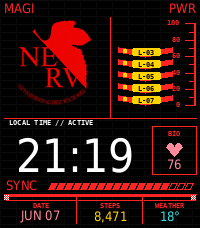
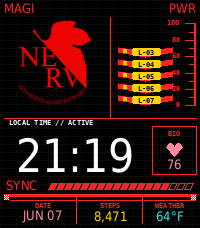
feat: configure sync rail and weather units

Changed region(s): [[0.09, 0.8904, 0.33, 0.9825], [0.78, 0.9211, 0.93, 0.9825]]

diff --git a/src/pkjs/index.js b/src/pkjs/index.js
@@ -3,7 +3,9 @@ var SETTINGS_KEY = 'nerv-watchface-settings-v1';
 var DEFAULTS = {
   CLOCK_FORMAT: 0,
   BOTTOM_LAYOUT: 0,
-  ACCENT_COLOR: 0
+  ACCENT_COLOR: 0,
+  TEMP_UNIT: 0,
+  SYNC_SOURCE: 0
 };
 
 var OPEN_METEO_URL = 'https://api.open-meteo.com/v1/forecast';
@@ -87,7 +89,7 @@ function buildConfigHtml(settings) {
     'button{width:100%;margin-top:22px;background:#ff2424;color:#000;border:0;border-radius:8px;padding:13px;font-weight:800;font-size:16px;text-transform:uppercase;}' +
     '.note{margin-top:12px;color:#777;font-size:12px;}' +
     '</style></head><body><div class="wrap">' +
-    '<h1>NERV WATCHFACE</h1><p>Configure display format and MAGI-style data modules.</p>' +
+    '<h1>NERV WATCHFACE</h1><p>Configure display format, MAGI-style modules, weather units, and the SYNC rail source.</p>' +
     '<label>Clock format</label><select id="CLOCK_FORMAT">' +
       option(0, 'System default', settings.CLOCK_FORMAT) + option(1, '24 hour', settings.CLOCK_FORMAT) + option(2, '12 hour', settings.CLOCK_FORMAT) +
     '</select>' +
@@ -97,10 +99,16 @@ function buildConfigHtml(settings) {
     '<label>HUD accent</label><select id="ACCENT_COLOR">' +
       option(0, 'NERV red', settings.ACCENT_COLOR) + option(1, 'Amber', settings.ACCENT_COLOR) + option(2, 'Green', settings.ACCENT_COLOR) + option(3, 'Cyan', settings.ACCENT_COLOR) +
     '</select>' +
+    '<label>Temperature unit</label><select id="TEMP_UNIT">' +
+      option(0, 'Celsius', settings.TEMP_UNIT) + option(1, 'Fahrenheit', settings.TEMP_UNIT) +
+    '</select>' +
+    '<label>SYNC rail source</label><select id="SYNC_SOURCE">' +
+      option(0, 'Data freshness', settings.SYNC_SOURCE) + option(1, 'Steps progress', settings.SYNC_SOURCE) + option(2, 'Battery level', settings.SYNC_SOURCE) + option(3, 'Aesthetic diagnostic', settings.SYNC_SOURCE) +
+    '</select>' +
     '<button id="save">Save</button>' +
-    '<div class="note">Weather fetches live from Open-Meteo using GPS. Logo stays NERV red.</div>' +
+    '<div class="note">Weather fetches live from Open-Meteo using GPS. SYNC can show data freshness, steps toward 10k, battery, or a fixed diagnostic state. Logo stays NERV red.</div>' +
     '</div><script>' +
-    'document.getElementById("save").onclick=function(){var s={};["CLOCK_FORMAT","BOTTOM_LAYOUT","ACCENT_COLOR"].forEach(function(k){s[k]=parseInt(document.getElementById(k).value,10);});location.href="pebblejs://close#"+encodeURIComponent(JSON.stringify(s));};' +
+    'document.getElementById("save").onclick=function(){var s={};["CLOCK_FORMAT","BOTTOM_LAYOUT","ACCENT_COLOR","TEMP_UNIT","SYNC_SOURCE"].forEach(function(k){s[k]=parseInt(document.getElementById(k).value,10);});location.href="pebblejs://close#"+encodeURIComponent(JSON.stringify(s));};' +
     '</script></body></html>';
 }
 

diff --git a/src/c/pebble-watchface.c b/src/c/pebble-watchface.c
@@ -6,6 +6,8 @@
 #define SETTINGS_KEY_CLOCK_FORMAT 1001
 #define SETTINGS_KEY_BOTTOM_LAYOUT 1003
 #define SETTINGS_KEY_ACCENT_COLOR 1004
+#define SETTINGS_KEY_TEMP_UNIT 1005
+#define SETTINGS_KEY_SYNC_SOURCE 1006
 
 #define CLOCK_SYSTEM 0
 #define CLOCK_24H 1
@@ -20,6 +22,16 @@
 #define ACCENT_GREEN 2
 #define ACCENT_CYAN 3
 
+#define TEMP_CELSIUS 0
+#define TEMP_FAHRENHEIT 1
+
+#define SYNC_SOURCE_FRESHNESS 0
+#define SYNC_SOURCE_STEPS 1
+#define SYNC_SOURCE_BATTERY 2
+#define SYNC_SOURCE_AESTHETIC 3
+
+#define STEPS_GOAL 10000
+
 static Window *s_main_window;
 static Layer *s_canvas_layer;
 static GBitmap *s_logo_bitmap;
@@ -31,6 +43,8 @@ static GFont s_font_chip_small;
 extern uint32_t MESSAGE_KEY_CLOCK_FORMAT;
 extern uint32_t MESSAGE_KEY_BOTTOM_LAYOUT;
 extern uint32_t MESSAGE_KEY_ACCENT_COLOR;
+extern uint32_t MESSAGE_KEY_TEMP_UNIT;
+extern uint32_t MESSAGE_KEY_SYNC_SOURCE;
 extern uint32_t MESSAGE_KEY_TEMPERATURE;
 extern uint32_t MESSAGE_KEY_REQUEST_WEATHER;
 
@@ -49,6 +63,8 @@ static time_t s_last_weather_time = 0;
 static int s_clock_format = CLOCK_SYSTEM;
 static int s_bottom_layout = LAYOUT_DATE_STEPS_WEATHER;
 static int s_accent_color = ACCENT_RED;
+static int s_temp_unit = TEMP_CELSIUS;
+static int s_sync_source = SYNC_SOURCE_FRESHNESS;
 static Layer *s_window_layer;
 static bool s_is_obstructed;
 
@@ -298,6 +314,21 @@ static void draw_panel_column(GContext *ctx, GRect r, const char *label, const c
   }
 }
 
+static void format_weather_text(char *buf, size_t buf_len) {
+  if (!s_weather_valid) {
+    snprintf(buf, buf_len, "--\u00B0");
+    return;
+  }
+
+  int temp = s_temperature;
+  if (s_temp_unit == TEMP_FAHRENHEIT) {
+    temp = ((s_temperature * 9) + (s_temperature >= 0 ? 2 : -2)) / 5 + 32;
+    snprintf(buf, buf_len, "%d\u00B0F", temp);
+  } else {
+    snprintf(buf, buf_len, "%d\u00B0C", temp);
+  }
+}
+
 static void draw_bottom_panel(GContext *ctx) {
   const int px = 4, py = BOTTOM_Y, pw = 192, ph = 30;
   GColor accent = accent_color();
@@ -316,7 +347,8 @@ static void draw_bottom_panel(GContext *ctx) {
   graphics_draw_line(ctx, GPoint(d1x, py + 2), GPoint(d1x, py + ph - 2));
   graphics_draw_line(ctx, GPoint(d2x, py + 2), GPoint(d2x, py + ph - 2));
 
-  GRect c1 = GRect(px + 2, py + 2, d1x - px - 2, ph - 4);
+  /* First column gets extra left inset: real Time2 rendering clipped DATE to ATE for one user. */
+  GRect c1 = GRect(px + 6, py + 2, d1x - px - 6, ph - 4);
   GRect c2 = GRect(d1x + 2, py + 2, d2x - d1x - 2, ph - 4);
   GRect c3 = GRect(d2x + 2, py + 2, px + pw - d2x - 2, ph - 4);
 
@@ -326,13 +358,7 @@ static void draw_bottom_panel(GContext *ctx) {
       draw_panel_column(ctx, c2, "BATT", s_battery_text, accent, false);
       {
         char weather_buf[16];
-        if (s_weather_valid) {
-          char temp_buf[4];
-          snprintf(temp_buf, sizeof(temp_buf), "%d", s_temperature);
-          snprintf(weather_buf, sizeof(weather_buf), "%s\u00B0", temp_buf);
-        } else {
-          snprintf(weather_buf, sizeof(weather_buf), "--\u00B0");
-        }
+        format_weather_text(weather_buf, sizeof(weather_buf));
         draw_panel_column(ctx, c3, "WEATHER", weather_buf, color_cyan(), false);
       }
       break;
@@ -347,13 +373,7 @@ static void draw_bottom_panel(GContext *ctx) {
       draw_panel_column(ctx, c2, "STEPS", s_steps_text, color_yellow(), false);
       {
         char weather_buf[16];
-        if (s_weather_valid) {
-          char temp_buf[4];
-          snprintf(temp_buf, sizeof(temp_buf), "%d", s_temperature);
-          snprintf(weather_buf, sizeof(weather_buf), "%s\u00B0", temp_buf);
-        } else {
-          snprintf(weather_buf, sizeof(weather_buf), "--\u00B0");
-        }
+        format_weather_text(weather_buf, sizeof(weather_buf));
         draw_panel_column(ctx, c3, "WEATHER", weather_buf, color_cyan(), false);
       }
       break;
@@ -362,19 +382,33 @@ static void draw_bottom_panel(GContext *ctx) {
 
 #define SYNC_RATIO_MAX_AGE_SECS 1800
 
+static int sync_source_percent(void) {
+  switch (s_sync_source) {
+    case SYNC_SOURCE_STEPS:
+      return s_steps_count >= STEPS_GOAL ? 100 : (s_steps_count * 100) / STEPS_GOAL;
+    case SYNC_SOURCE_BATTERY:
+      return s_battery_pct;
+    case SYNC_SOURCE_AESTHETIC:
+      return 85;
+    case SYNC_SOURCE_FRESHNESS:
+    default:
+      if (s_last_weather_time > 0) {
+        int elapsed = (int)(time(NULL) - s_last_weather_time);
+        if (elapsed < SYNC_RATIO_MAX_AGE_SECS) {
+          int pct = 100 - (elapsed * 100 / SYNC_RATIO_MAX_AGE_SECS);
+          if (pct > 100) return 100;
+          if (pct < 0) return 0;
+          return pct;
+        }
+      }
+      return 0;
+  }
+}
+
 static void draw_sync_ratio(GContext *ctx, int y) {
   GColor accent = accent_color();
 
-  /* Compute freshness percentage */
-  int sync_pct = 0;
-  if (s_last_weather_time > 0) {
-    int elapsed = (int)(time(NULL) - s_last_weather_time);
-    if (elapsed < SYNC_RATIO_MAX_AGE_SECS) {
-      sync_pct = 100 - (elapsed * 100 / SYNC_RATIO_MAX_AGE_SECS);
-      if (sync_pct > 100) sync_pct = 100;
-      if (sync_pct < 0)   sync_pct = 0;
-    }
-  }
+  int sync_pct = sync_source_percent();
 
   /* System font labels: custom 1px pixel text can disappear in QEMU. */
   draw_text_box(ctx, "SYNC", GRect(6, y, 38, 14), s_font_chip_small, accent, GTextAlignmentLeft);
@@ -520,6 +554,8 @@ static void save_settings(void) {
   persist_write_int(SETTINGS_KEY_CLOCK_FORMAT, s_clock_format);
   persist_write_int(SETTINGS_KEY_BOTTOM_LAYOUT, s_bottom_layout);
   persist_write_int(SETTINGS_KEY_ACCENT_COLOR, s_accent_color);
+  persist_write_int(SETTINGS_KEY_TEMP_UNIT, s_temp_unit);
+  persist_write_int(SETTINGS_KEY_SYNC_SOURCE, s_sync_source);
 }
 
 static int clamp_setting(int value, int min, int max, int fallback) {
@@ -530,16 +566,22 @@ static void load_settings(void) {
   s_clock_format = persist_exists(SETTINGS_KEY_CLOCK_FORMAT) ? persist_read_int(SETTINGS_KEY_CLOCK_FORMAT) : CLOCK_SYSTEM;
   s_bottom_layout = persist_exists(SETTINGS_KEY_BOTTOM_LAYOUT) ? persist_read_int(SETTINGS_KEY_BOTTOM_LAYOUT) : LAYOUT_DATE_STEPS_WEATHER;
   s_accent_color = persist_exists(SETTINGS_KEY_ACCENT_COLOR) ? persist_read_int(SETTINGS_KEY_ACCENT_COLOR) : ACCENT_RED;
+  s_temp_unit = persist_exists(SETTINGS_KEY_TEMP_UNIT) ? persist_read_int(SETTINGS_KEY_TEMP_UNIT) : TEMP_CELSIUS;
+  s_sync_source = persist_exists(SETTINGS_KEY_SYNC_SOURCE) ? persist_read_int(SETTINGS_KEY_SYNC_SOURCE) : SYNC_SOURCE_FRESHNESS;
 
   s_clock_format = clamp_setting(s_clock_format, CLOCK_SYSTEM, CLOCK_12H, CLOCK_SYSTEM);
   s_bottom_layout = clamp_setting(s_bottom_layout, LAYOUT_DATE_STEPS_WEATHER, LAYOUT_DATE_STEPS_BATTERY, LAYOUT_DATE_STEPS_WEATHER);
   s_accent_color = clamp_setting(s_accent_color, ACCENT_RED, ACCENT_CYAN, ACCENT_RED);
+  s_temp_unit = clamp_setting(s_temp_unit, TEMP_CELSIUS, TEMP_FAHRENHEIT, TEMP_CELSIUS);
+  s_sync_source = clamp_setting(s_sync_source, SYNC_SOURCE_FRESHNESS, SYNC_SOURCE_AESTHETIC, SYNC_SOURCE_FRESHNESS);
 }
 
 static void inbox_received_callback(DictionaryIterator *iterator, void *context) {
   Tuple *clock = dict_find(iterator, MESSAGE_KEY_CLOCK_FORMAT);
   Tuple *layout = dict_find(iterator, MESSAGE_KEY_BOTTOM_LAYOUT);
   Tuple *accent = dict_find(iterator, MESSAGE_KEY_ACCENT_COLOR);
+  Tuple *temp_unit = dict_find(iterator, MESSAGE_KEY_TEMP_UNIT);
+  Tuple *sync_source = dict_find(iterator, MESSAGE_KEY_SYNC_SOURCE);
   Tuple *temp = dict_find(iterator, MESSAGE_KEY_TEMPERATURE);
 
   bool redraw = false;
@@ -547,6 +589,8 @@ static void inbox_received_callback(DictionaryIterator *iterator, void *context)
   if (clock) { s_clock_format = clamp_setting((int)clock->value->int32, CLOCK_SYSTEM, CLOCK_12H, CLOCK_SYSTEM); redraw = true; }
   if (layout) { s_bottom_layout = clamp_setting((int)layout->value->int32, LAYOUT_DATE_STEPS_WEATHER, LAYOUT_DATE_STEPS_BATTERY, LAYOUT_DATE_STEPS_WEATHER); redraw = true; }
   if (accent) { s_accent_color = clamp_setting((int)accent->value->int32, ACCENT_RED, ACCENT_CYAN, ACCENT_RED); redraw = true; }
+  if (temp_unit) { s_temp_unit = clamp_setting((int)temp_unit->value->int32, TEMP_CELSIUS, TEMP_FAHRENHEIT, TEMP_CELSIUS); redraw = true; }
+  if (sync_source) { s_sync_source = clamp_setting((int)sync_source->value->int32, SYNC_SOURCE_FRESHNESS, SYNC_SOURCE_AESTHETIC, SYNC_SOURCE_FRESHNESS); redraw = true; }
 
   if (temp && temp->type == TUPLE_INT) {
     s_temperature = (int)temp->value->int32;
@@ -554,7 +598,7 @@ static void inbox_received_callback(DictionaryIterator *iterator, void *context)
     s_last_weather_time = time(NULL);
     redraw = true;
   }
-  if (clock || layout || accent) {
+  if (clock || layout || accent || temp_unit || sync_source) {
     save_settings();
   }
 

diff --git a/scripts/render_preview.py b/scripts/render_preview.py
@@ -132,7 +132,7 @@ def draw_hazard(draw, x, y, s=5):
             draw.point((x + col, y + row), fill=RED if (row + col) % 2 else WHITE)
 
 
-def draw_bottom_panel(draw, date="JUN 07", steps="8,471", temp="18°"):
+def draw_bottom_panel(draw, date="JUN 07", steps="8,471", temp="64°F"):
     px, py, pw, ph = 4, BOTTOM_Y, 192, 30
     draw.line([(px, py), (px + pw - 1, py)], fill=RED)
     draw.line([(px, py + 1), (px + pw - 1, py + 1)], fill=RED)
@@ -141,7 +141,7 @@ def draw_bottom_panel(draw, date="JUN 07", steps="8,471", temp="18°"):
     d1x, d2x = px + 72, px + 138
     draw.line([(d1x, py + 2), (d1x, py + ph - 2)], fill=RED)
     draw.line([(d2x, py + 2), (d2x, py + ph - 2)], fill=RED)
-    cols = [(px + 2, py + 2, d1x - px - 2, ph - 4, "DATE", date, PINK),
+    cols = [(px + 6, py + 2, d1x - px - 6, ph - 4, "DATE", date, PINK),
             (d1x + 2, py + 2, d2x - d1x - 2, ph - 4, "STEPS", steps, YELLOW),
             (d2x + 2, py + 2, px + pw - d2x - 2, ph - 4, "WEATHER", temp, CYAN)]
     for x, y, w, h, label, value, col in cols:
